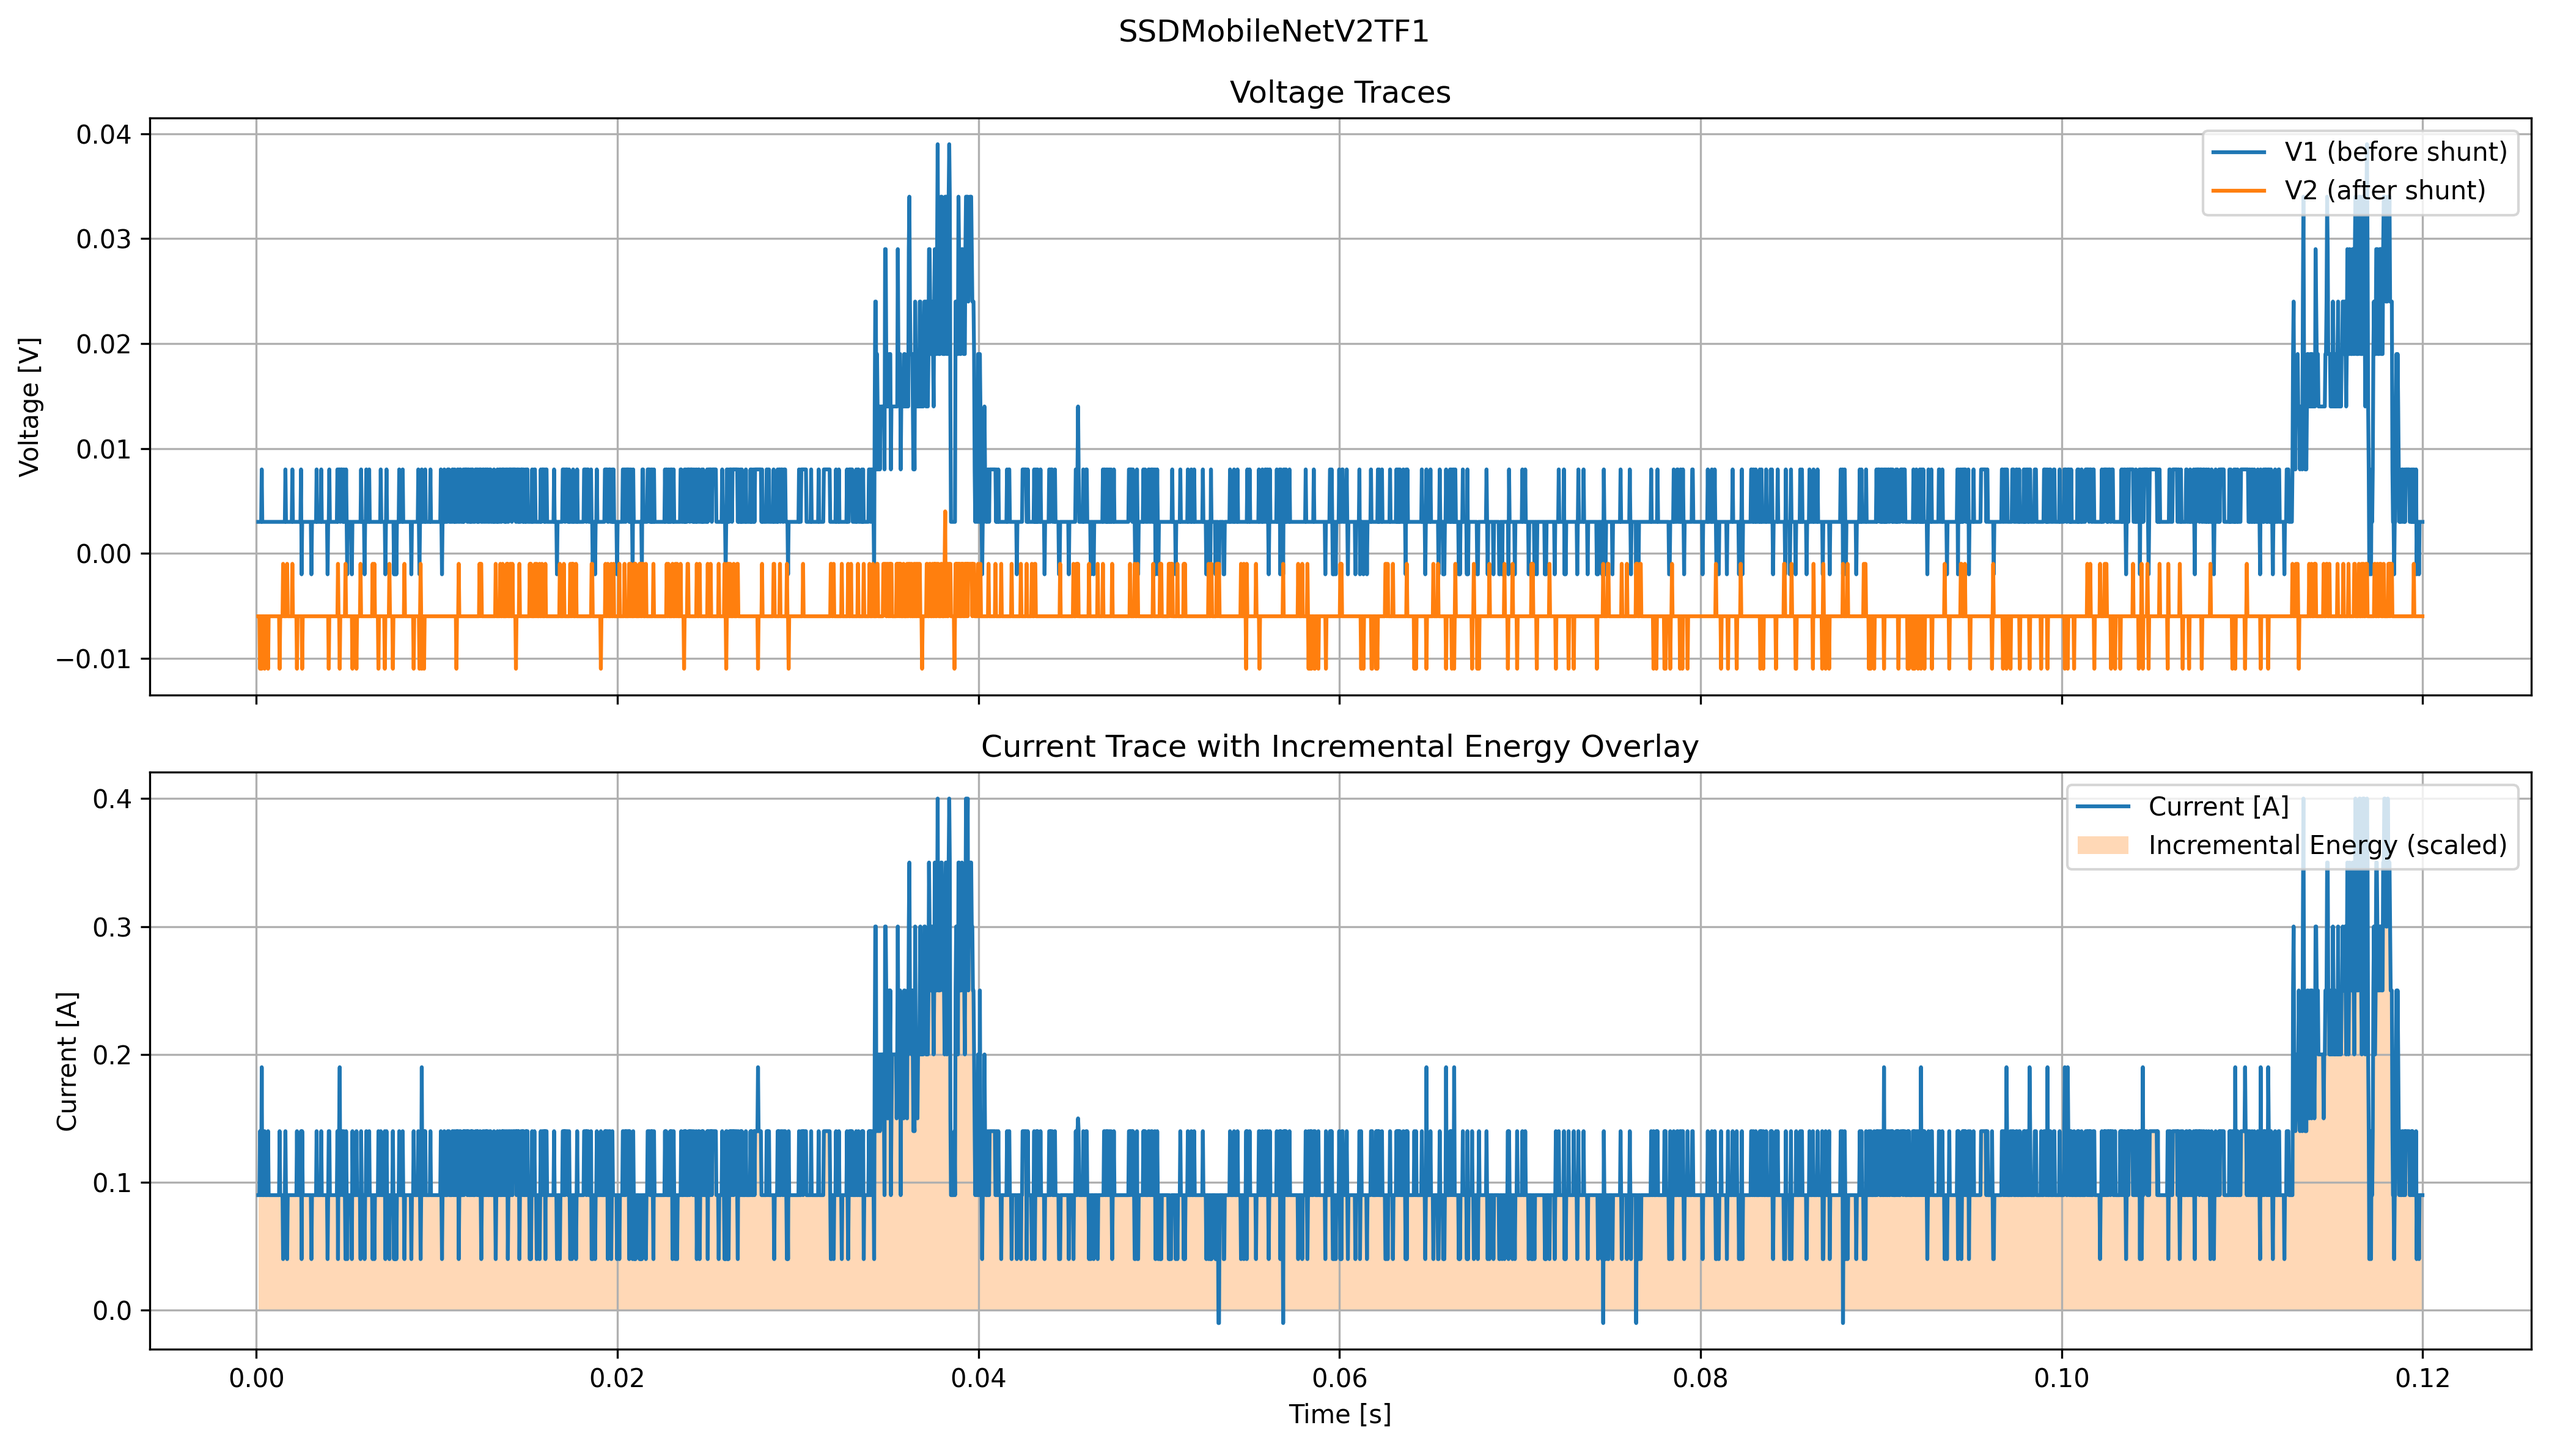
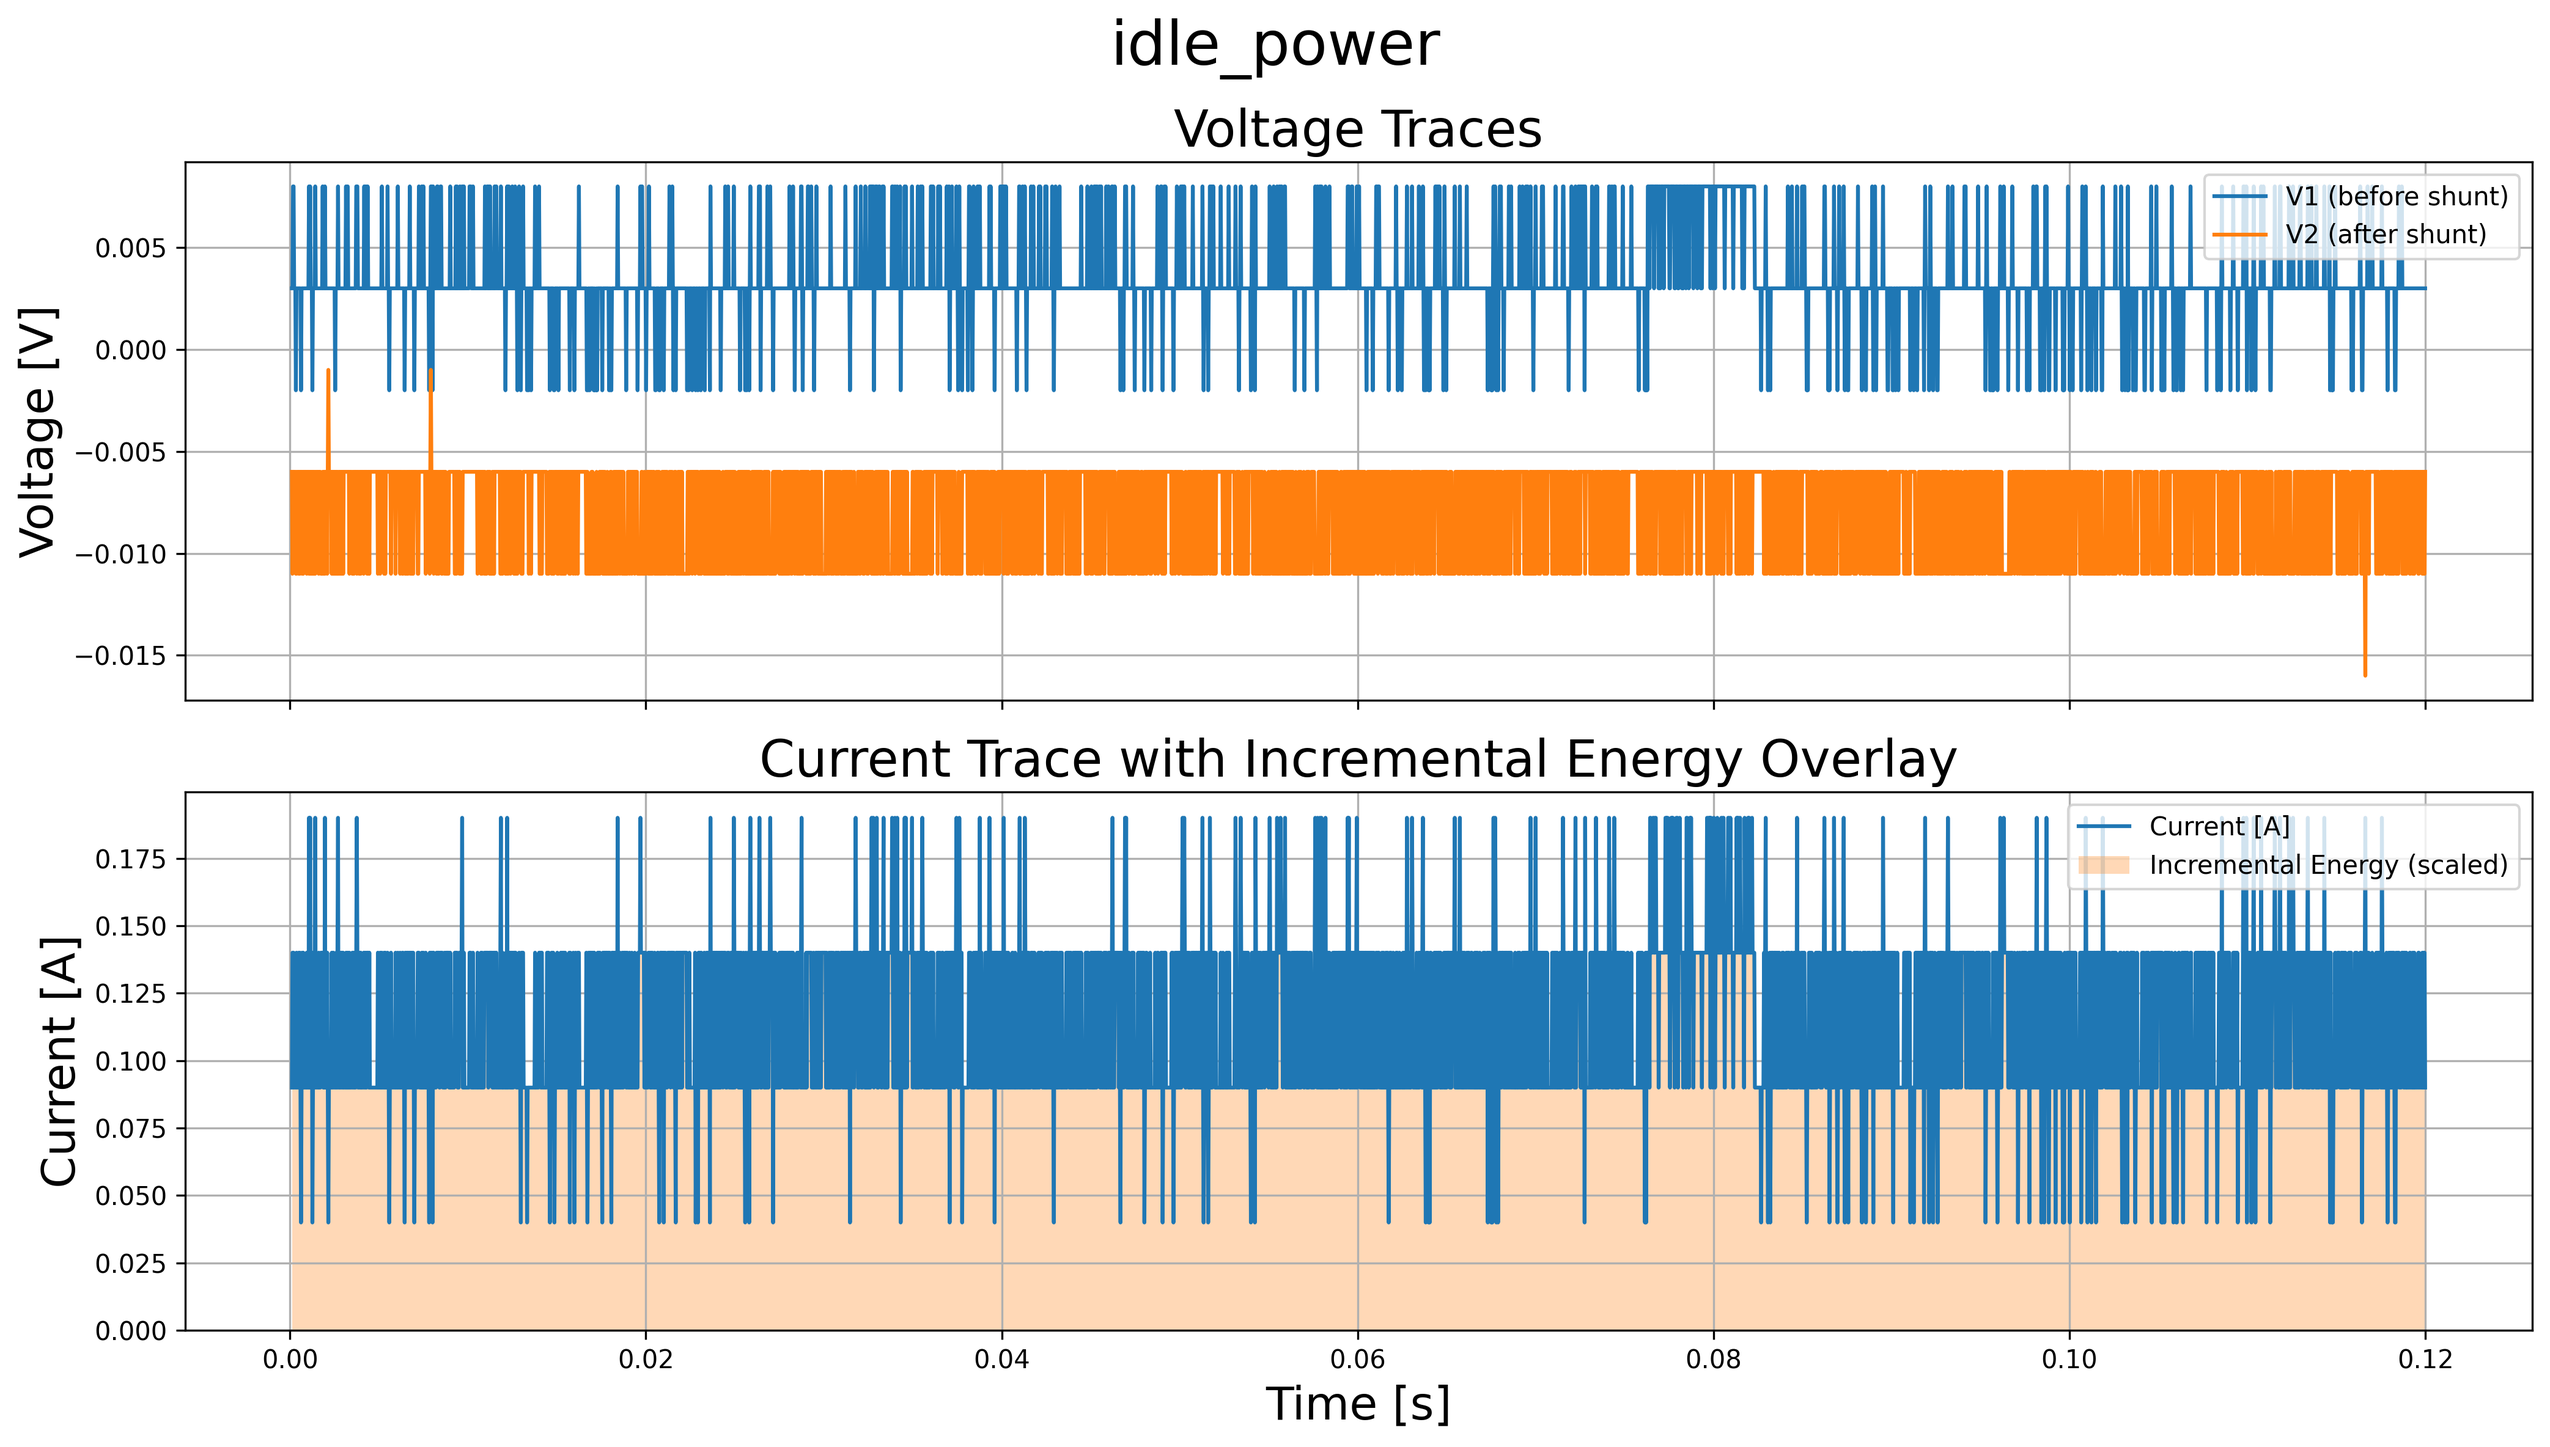
fixed idle, found sneaky negative

diff --git a/src/scripts/saleae_parsing.py b/src/scripts/saleae_parsing.py
@@ -34,8 +34,8 @@ def plot_saleae_trace(directory, psu_voltage=5.0, r_shunt=0.1, plot_energy_bars=
     # --- Voltage traces ---
     ax1.plot(t, v1, label="V1 (before shunt)")
     ax1.plot(t, v2, label="V2 (after shunt)")
-    ax1.set_ylabel("Voltage [V]")
-    ax1.set_title("Voltage Traces")
+    ax1.set_ylabel("Voltage [V]",fontsize=18)
+    ax1.set_title("Voltage Traces",fontsize=20)
     ax1.grid(True)
     ax1.legend(loc="upper right")
     
@@ -43,15 +43,15 @@ def plot_saleae_trace(directory, psu_voltage=5.0, r_shunt=0.1, plot_energy_bars=
     ax2.plot(t, current, color="C0", label="Current [A]")
     ax2.bar(t, incremental_energy / incremental_energy.max() * current.max(),
             width=dt, alpha=0.3, color="C1", label="Incremental Energy (scaled)")
-    ax2.set_xlabel("Time [s]")
-    ax2.set_ylabel("Current [A]")
-    ax2.set_title("Current Trace with Incremental Energy Overlay")
+    ax2.set_xlabel("Time [s]",fontsize=18)
+    ax2.set_ylabel("Current [A]",fontsize=18)
+    ax2.set_title("Current Trace with Incremental Energy Overlay",fontsize=20)
     ax2.grid(True)
     # Clean up legend duplicates
     handles, labels = ax2.get_legend_handles_labels()
     by_label = dict(zip(labels, handles))
     ax2.legend(by_label.values(), by_label.keys(), loc="upper right")
-    fig.suptitle(directory.name)
+    fig.suptitle(directory.name,fontsize=24)
     plt.tight_layout()
     plt.savefig("Diagnostic_Trace_.png", dpi=300, bbox_inches="tight")
 
@@ -125,23 +125,64 @@ class SaleaeOutputParsing:
         return rising[long_mask], falling[long_mask]
     
     def find_idle_power(self):
-        """Cache or load persistent idle power from CSV"""
-
         from path_utils import get_repo_root
+        import os
+
         idle_csv = get_repo_root() / "results/captures/idle_power/idle.csv"
 
-        # if csv with stored value doesn't exist, find the value and store it for future use
+        # If the idle CSV does not exist, compute and save it (in Watts)
         if not idle_csv.exists() or os.stat(idle_csv).st_size == 0:
-            mean_power, _, _, _ = self.avg_power_measurement(subtract_idle=False)
-            df = pd.DataFrame([{"Average Idle Power W": mean_power}])
+            # compute mean_power in Watts (do NOT ask avg_power_measurement to subtract idle)
+            mean_power_w, _, _, _ = self.avg_power_measurement(subtract_idle=False, r_shunt=0.1)
+            if mean_power_w is None:
+                raise RuntimeError("Could not compute idle power from measurement.")
+            # store in Watts explicitly
+            df = pd.DataFrame([{"Average Idle Power (W)": float(mean_power_w)}])
             idle_csv.parent.mkdir(parents=True, exist_ok=True)
             df.to_csv(idle_csv, index=False)
-            self.idle_power = mean_power
+            self.idle_power = float(mean_power_w)
         else:
             idle_df = pd.read_csv(idle_csv)
-            self.idle_power = idle_df["Average Idle Power W"].iloc[0]
-        
-        print(f"Idle Power = {self.idle_power} mW")
+            # Find a sensible column: prefer names containing 'idle'
+            col = None
+            for c in idle_df.columns:
+                if "idle" in c.lower():
+                    col = c
+                    break
+            # fallback: take first numeric column
+            if col is None:
+                # choose first column that contains a numeric-looking value
+                for c in idle_df.columns:
+                    try:
+                        float(idle_df[c].iloc[0])
+                        col = c
+                        break
+                    except Exception:
+                        continue
+            if col is None:
+                raise RuntimeError(f"Couldn't find idle power value in CSV: {idle_csv}")
+
+            raw_val = float(idle_df[col].iloc[0])
+            col_lower = col.lower()
+
+            # If the column name says mW -> convert
+            if "mw" in col_lower:
+                idle_w = raw_val / 1000.0
+            elif "w" in col_lower:
+                idle_w = raw_val
+            else:
+                # No unit in header: heuristic check. Typical idle for these devices is << 50 W.
+                # If value is extremely large (>50), assume it was recorded in mW and convert.
+                if raw_val > 50.0:
+                    # very likely this was stored in mW accidentally
+                    idle_w = raw_val / 1000.0
+                else:
+                    idle_w = raw_val
+
+            self.idle_power = float(idle_w)
+
+        # Print both for human clarity
+        print(f"[INFO] Idle power loaded: {self.idle_power:.6f} W ({self.idle_power*1e3:.3f} mW)")
         return self.idle_power
 
     def avg_inference_time(self):
@@ -151,33 +192,33 @@ class SaleaeOutputParsing:
         else:
             return np.mean(self.inf_times)
 
-    def avg_power_measurement(self, psu_dc_volts: float = 5.0, r_shunt: float = 1.0, subtract_idle: bool = True):
-        """Compute average power and energy during inference windows"""
+    def avg_power_measurement(self, psu_dc_volts: float = 5.0, r_shunt: float = 0.1, subtract_idle: bool = True):
+        """
+        Compute average power and energy only during inference windows.
+        If subtract_idle=True, idle baseline is subtracted only inside those windows.
+        """
 
         if self.v1 is None or self.v2 is None or self.t_analog is None:
             raise Exception("No analog file output")
         if len(self.v1) == 0 or len(self.v2) == 0 or len(self.t_analog) == 0:
             raise Exception("Analog arrays empty")
 
+        # Current/voltage/power for whole trace
         v_shunt = self.v1 - self.v2
         v_device = psu_dc_volts - v_shunt
         I = v_shunt / r_shunt
+        p_inst_raw = v_device * I  # Watts
 
-        # If subtract_idle=True, try to subtract cached idle
+        # Load idle baseline if requested
         idle = 0.0
         if subtract_idle:
             if self.idle_power is None:
-                # Load from CSV, but don't recurse into avg_power_measurement()
                 self.find_idle_power()
             idle = self.idle_power if self.idle_power is not None else 0.0
-        
-        print(f"v_device * I = {v_device * I}, idle = {idle}")
 
-        p_inst = v_device * I - idle
-
+        # Bail out if we don’t have inference windows
         if self.rising is None or self.falling is None:
-            mean_power = np.mean(p_inst)
-            return mean_power, None, None, None
+            return None, None, None, None
 
         avg_powers = []
         energies = []
@@ -188,24 +229,31 @@ class SaleaeOutputParsing:
                 continue
 
             t_window = self.t_analog[mask]
-            p_window = p_inst[mask]
+            p_window = p_inst_raw[mask]
 
-            energy = np.trapezoid(p_window, t_window)   # Joules
+            # subtract idle only inside the spike
+            if subtract_idle:
+                p_window = p_window - idle
+
+            # integrate to energy [J]
+            energy = np.trapz(p_window, t_window)
             duration = t_window[-1] - t_window[0]
 
             if duration > 0:
                 avg_powers.append(energy / duration)
                 energies.append(energy)
 
+        # report only inference-window results
         mean_power = np.mean(avg_powers) if avg_powers else None
         mean_energy = np.mean(energies) if energies else None
 
         return mean_power, np.array(avg_powers), mean_energy, np.array(energies)
-
+    
+    
 if __name__ == "__main__":
     REPO_ROOT = get_repo_root()
     
-    plot_saleae_trace(REPO_ROOT/"results/captures/obj_det_runs/SSDMobileNetV2TF1", psu_voltage=5.0, r_shunt=0.1, plot_energy_bars=True)
+    plot_saleae_trace(REPO_ROOT/"results/captures/idle_power", psu_voltage=5.0, r_shunt=0.1, plot_energy_bars=True)
 
     # r_shunt = 0.1  # ohms
     # parser = SaleaeOutputParsing()  # defaults to cwd

diff --git a/src/scripts/model_stats_plotting.py b/src/scripts/model_stats_plotting.py
@@ -29,7 +29,7 @@ def inference_from_csvs(rundir):
                 inference_time_ms.append(None)
     return inference_time_ms
 
-def collect_results(run_dir:pathlib.Path, psu_dc_volts=5.0, r_shunt=1.0):
+def collect_results(run_dir:pathlib.Path, psu_dc_volts=5.0, r_shunt=0.1):
     """
     Collects primary results of digital and analog Saleae results into a dict for ease of use.
     Point to directory that directly parents the .CSVs
